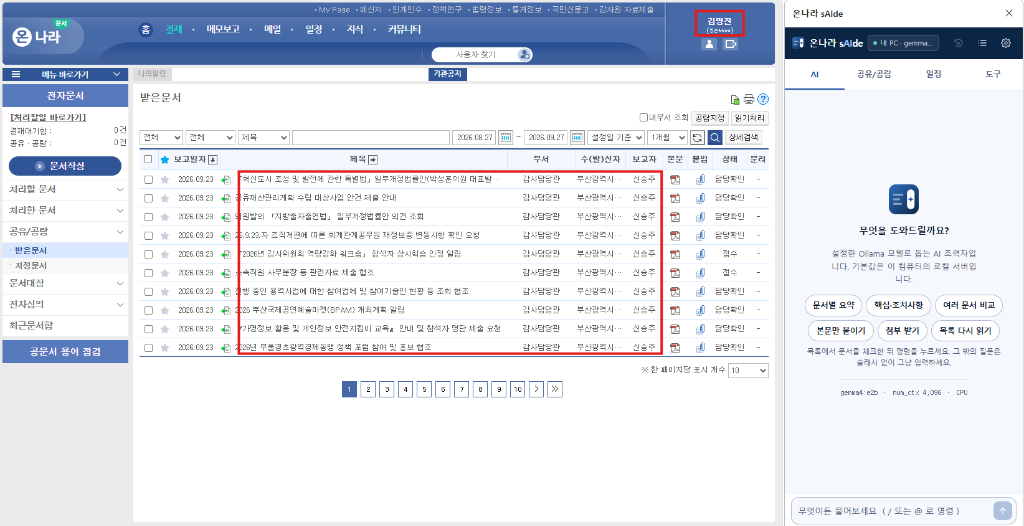
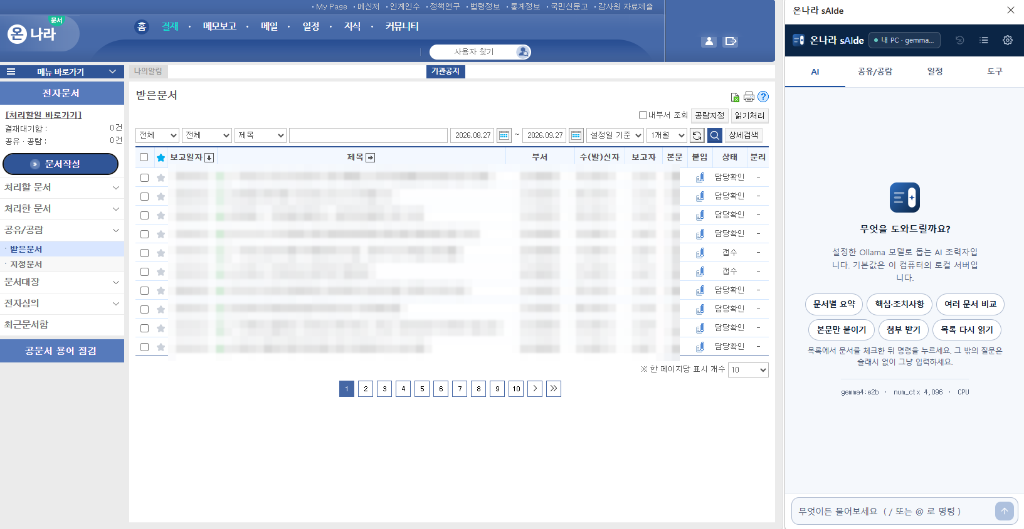
s

diff --git a/README.md b/README.md
@@ -24,7 +24,7 @@
 > 실무자가 매일 사용하는 온나라 본 화면(받은문서, 결재대기함, 문서관리카드 기안기 등)의 업무 맥락을 그대로 유지하면서, **본 화면을 닫거나 새 창을 띄울 필요 없이** 우측에서 공문 분석, 조치사항 도출, 일정 등록, 초안 작성을 실시간으로 지원합니다.
 
 ![실제 온나라 전자문서시스템 메인화면과 sAIde AI 사이드패널 연동 화면](docs/screenshots/00-onnara-main-sidepanel.png)
-*(실제 온나라 전자문서시스템 '공유/공람 > 받은문서' 목록과 우측 Microsoft Edge AI 사이드패널 실시간 연동 화면)*
+*(실제 온나라 전자문서시스템 '공유/공람 > 받은문서' 목록과 우측 Microsoft Edge AI 사이드패널 실시간 연동 화면 · 개인정보 및 공문 목록 모자이크 비식별화 처리)*
 
 ---
 
@@ -162,7 +162,7 @@ npm run verify
 온나라 sAIde는 실무자가 온나라 전자문서시스템 웹페이지를 이용하는 도중 언제든지 브라우저 우측에서 열어 활용할 수 있습니다. 온나라 메인 화면의 문서 목록 및 체크박스 선택 상태를 실시간으로 인식하며, 본 화면을 닫거나 이동할 필요 없이 백그라운드에서 공문을 추출·분석합니다.
 
 ![실제 온나라 메인화면과 sAIde AI 사이드패널 연동 전체 화면](docs/screenshots/00-onnara-main-sidepanel.png)
-*(실제 온나라 전자문서시스템 '공유/공람 > 받은문서' 목록과 우측 Microsoft Edge AI 사이드패널 실시간 연동 화면)*
+*(실제 온나라 전자문서시스템 '공유/공람 > 받은문서' 목록과 우측 Microsoft Edge AI 사이드패널 실시간 연동 화면 · 개인정보 및 공문 목록 모자이크 비식별화 처리)*
 
 <details>
 <summary><b>🔍 AI 사이드패널 단독 상세 UI 구성 보기 (클릭하여 펼치기)</b></summary>

diff --git a/docs/screenshots/README.md b/docs/screenshots/README.md
@@ -12,7 +12,7 @@
 ### 🌟 실제 온나라 시스템 통합 연동 캡처
 | 파일명 | 해상도 | 매뉴얼 설명 영역 | 화면 구성 및 주요 연동 내용 |
 |---|---|---|---|
-| [**00-onnara-main-sidepanel.png**](00-onnara-main-sidepanel.png) | 1024 × 526 | 시스템 소개 / AI 사이드패널 연동 | 실제 온나라 전자문서시스템 '공유/공람 > 받은문서' 목록 화면(보고일자·제목·부서·수발신자·상태)과 우측 Edge AI 사이드패널(AI 챗봇·빠른 명령 칩·로컬 모델 연동) 실제 구동 모습 |
+| [**00-onnara-main-sidepanel.png**](00-onnara-main-sidepanel.png) | 1024 × 526 | 시스템 소개 / AI 사이드패널 연동 | 실제 온나라 전자문서시스템 '공유/공람 > 받은문서' 목록 화면(보고일자·제목·부서·수발신자·상태)과 우측 Edge AI 사이드패널(AI 챗봇·빠른 명령 칩·로컬 모델 연동) 실제 구동 모습 (개인정보 및 공문 목록 모자이크 비식별화 완료) |
 | [**00-onnara-drafter-sidecar.png**](00-onnara-drafter-sidecar.png) | 1024 × 861 | 온나라 기안 도우미 연동 | 실제 온나라 '문서관리카드' 웹기안기 본문 작성 화면(부산광역시 표준 공문 서식)과 우측 인페이지 사이드카 드로어('기안 코파일럿' 서식 선택·초안 생성·클릭 위치 삽입) 실제 구동 모습 |
 
 ### 🔍 컴포넌트별 상세 UI 캡처 (docs/preview/)
